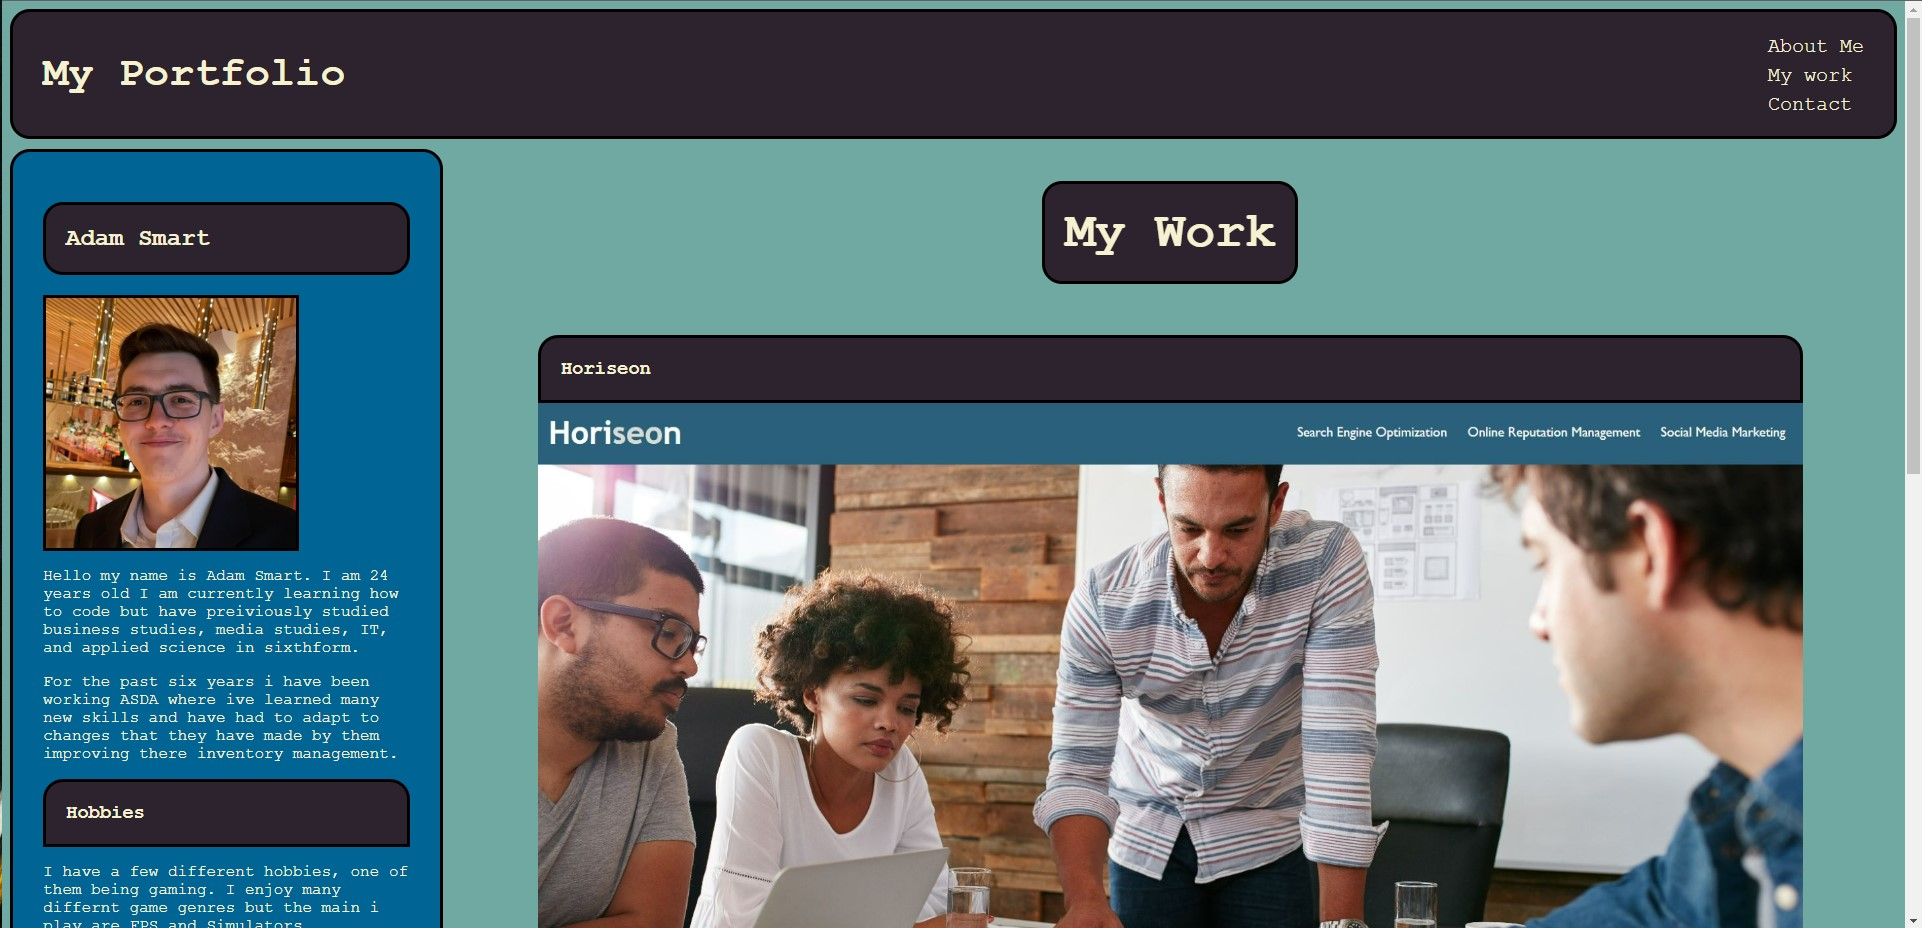
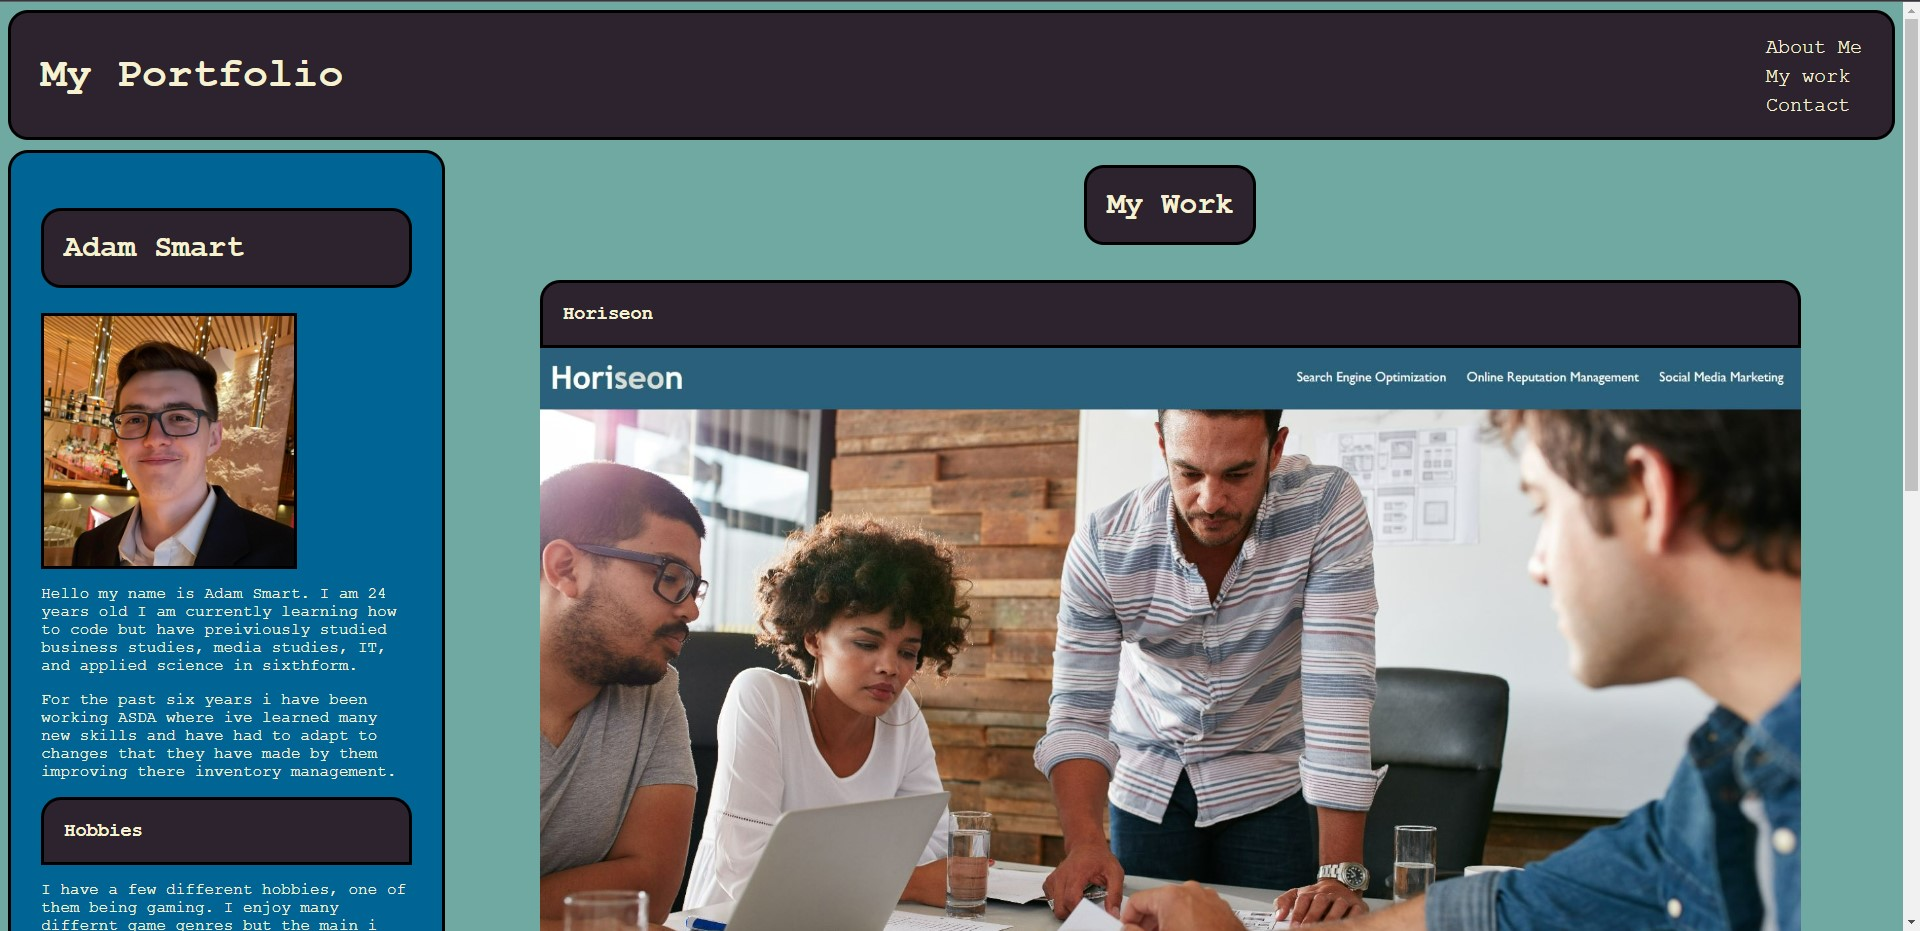
removed useless code, add img of mobile + comments

diff --git a/assets/css/style.css b/assets/css/style.css
@@ -7,6 +7,7 @@ body {
     background-color: #70a9a1 ;
     font-family: 'Courier New', Courier, monospace;
 }
+/* This changes the style of the header element*/
 header {
 background-color:var(--dark) ;
 color: var(--font);
@@ -15,41 +16,42 @@ font-family: 'Courier New', Courier, monospace;
 border-radius: var(--round);border: black;
 border-style: solid;
 }
+/* This changes style and positioning of the h1 element*/
 h1 {
     display: inline-block;
     font-size: 42px;
     padding-left: 20px;
 }
+/*Changes the display style of the main section*/
 main{
     display: flex;
 }
-
+/*This change moves the navigation list to the right of the header*/
 nav {
     float: right;
     padding-right: 20px;
-    padding-top: 10px;
-    
-    
+    padding-top: 10px;  
 }
+/*This removes the bullet points to the list and lines its up to sit in the centre of the x=axis */
 nav ul {
     list-style-type: none;
     display: contents;
-    
     padding: 5px;
-    
 }
+/*This changes the display of the text to be in a list rather than being in a row*/
 nav ul li {
     display: block;
     font-size: 20px;
     padding-top: 3px;
     padding-bottom: 3px;
-    
 }
+/*Changes the color of the link and removes the underline*/
 nav a{
     color: var(--font);
     text-decoration: none;
     font-size: 20px;
 }
+/*Changes the style of the aside*/
 aside {
     background-color: #006494;
     padding: 30px;
@@ -59,8 +61,8 @@ aside {
     border: black;
     border-style: solid;
     color: var(--font);
-
 }
+/*Changes the style anf sizing of the image*/
 aside img {
     width: auto;
     height: 250px;
@@ -70,14 +72,17 @@ aside img {
     min-width: none;
     min-height: auto;
 }
+/*Changes style of all h2 elements*/
 h2 {
     background-color: var(--dark);
     color: var(--font);
     padding: 20px;
     border-radius: var(--round);
     border: black;
-    border-style: solid;}
-
+    border-style: solid;
+    font-size: 30px;
+}
+/*Changes sizing and postioning of the .my-work*/
 .my-work{
     padding-left: 5%;
     padding-right: 5%;
@@ -86,28 +91,26 @@ h2 {
     min-width: 0;
     min-height: 0;
     justify-content: space-evenly;
-
 }
-.my-work h2 {
-    font-size: 50px;
-}
+/*Changes the size of all photos in .my-work*/
 .my-work img {
 width: 100%;
 height: auto;
 margin-bottom: 10px;
 }
-
+/*Changes the the size of the whole .work section*/
 .work {
     min-width: 0;
     min-height: 0;
     width: 49%;
     height: auto;
 }
+/*Alters the image size to make them the full size of the .work section*/
 .work img {
     width: 100%;
     height: auto;
 }
-
+/*Changes the style of the h3 elements*/
 h3 { background-color: var(--dark);
 padding: 20px;
 margin: 0;
@@ -119,10 +122,7 @@ border: black;
 border-style: solid;
 color: var(--font);
 }
-.work h3{
-    background-color: var(--dark);
-}
-
+/*Changes the style of the footer*/
 footer {
     background-color: var(--dark);
     color: var(--font);
@@ -130,18 +130,21 @@ footer {
     padding: 20px;border: black;
     border-style: solid;
 }
+/*Changes the color of the link text to make it stand out*/
 footer a {
     color: var(--font);
-    
 }
+/*Changes the color of the link when you hover over it */
 footer a:hover{
     color: blue;
 }
+/*Changes the positioning of the text in the footer*/
 footer p {
     font-size: 25px;
     margin-right: 350px;
     display: block;
 }
+/*Changes the position and size of webpage when the screen is shrunk down to 768px*/
 @media screen and (max-width: 768px) {
     main {
         padding: 0;

diff --git a/README.md b/README.md
@@ -16,8 +16,8 @@ When creating the webpage an issue I ran into was changing the size of some of t
 ## Usage
 This webpage is designed to be used by myself and potential future employers. This helps me as this gives me a space where I can show off previous work that I have done and currently working on keeping it all in one place. This is useful for potential employers as they can see the work ive done before, all on one page with included links to the deployed application allowing them to explore by themself. 
 
-![An image of the completed webpage after changes have been made](/assets/images/Portfolio.jpg)
-
+![An image of the completed webpage](/assets/images/portfolio.jpg)
+![Image of the webpage in mobile mode](/assets/images/mobile%20view.jpg)
 ## Link To Deployed Site
 https://adam-smart.github.io/week-2-portfolio-challenge/
 
